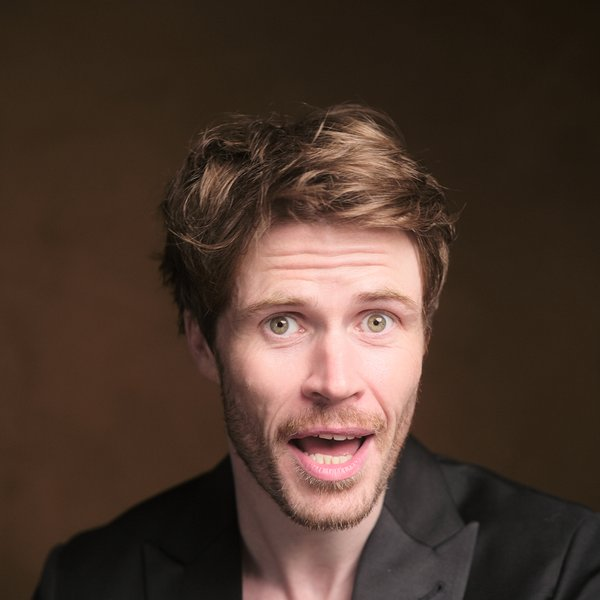
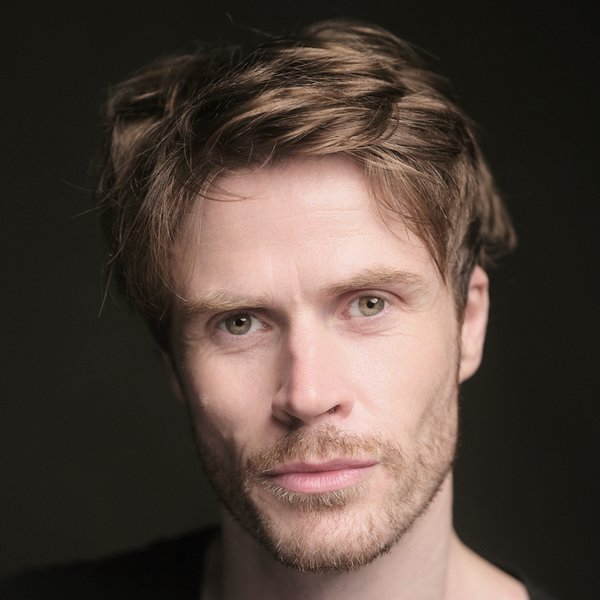
Replace Blue Book links with on-site bios and headshots; new Chris headshot
Claude-Session: https://claude.ai/code/session_01P8wBzAxyysvAywpiWrhLZ2

diff --git a/index.html b/index.html
@@ -517,6 +517,7 @@ details.more>summary::before{color:#f5f5f4}
 .avatar img{width:100%;height:100%;object-fit:cover;object-position:50% 18%}
 .aid h3{font-size:21px!important;margin:0;line-height:1.2}
 .acount{margin:3px 0 0;color:#b8b8bd;font-size:14px}.acount b{color:#f5f5f4;font-weight:600}
+.abio{margin:12px 0 4px;border-top:1px solid rgba(255,255,255,.12);padding-top:10px}.abio summary{cursor:pointer;font-weight:600;font-size:14px;min-height:32px;display:flex;align-items:center;gap:6px;list-style:none}.abio summary::-webkit-details-marker{display:none}.abio summary::after{content:"+";margin-left:auto;font-size:18px;opacity:.7}.abio[open] summary::after{content:"–"}.abio p{font-size:14px;line-height:1.55;opacity:.85;margin:8px 0 0}
 .aprof{display:inline-block;margin-top:4px;font-size:14px;font-weight:600;color:#f5f5f4;text-decoration:underline;text-underline-offset:3px;padding:4px 0}
 .aprof:hover{color:#fff;text-decoration-thickness:2px}
 .hsup2{display:inline-block;margin-top:10px;font-size:13px;color:#b8b8bd;text-decoration:underline;cursor:pointer}
@@ -1194,13 +1195,14 @@ function mapEmbed(v){return `<div class="rmap"><iframe title="Map: ${esc(v.name)
 const SHOWS=(()=>{const a=[];for(let d=1;d<=31;d++){const x=new Date(2027,2,d);if([4,5,6].includes(x.getDay()))a.push(dkey(x))}return a})();
 const CALL=[["18:00","Arrive"],["18:30–19:30","Warm-up"],["20:00","Curtain"]];
 const CREW=[
- {key:"chris-kelly",name:"Chris Kelly",role:"Director",fixed:true,link:"https://bluebooktheatrecompany.com/chriskelly/",linkLabel:"Profile ↗",link2:"https://chriskelly.it",link2Label:"chriskelly.it ↗",link3:"https://www.imdb.com/name/nm5854428/",link3Label:"IMDb ↗"},
- {key:"jessica-kollande",name:"Jessica Kollande",role:"Assistant Producer",link:"https://bluebooktheatrecompany.com/jessica-kollande/",linkLabel:"Profile ↗"},
+ {key:"chris-kelly",name:"Chris Kelly",role:"Director",fixed:true,link:"https://chriskelly.it",linkLabel:"chriskelly.it ↗",link2:"https://www.imdb.com/name/nm5854428/",link2Label:"IMDb ↗"},
+ {key:"jessica-kollande",name:"Jessica Kollande",role:"Assistant Producer"},
  {key:"adrian-p-smith",name:"Adrian P. Smith",role:"Set Director",field:"crewStatus",note:"Also plays Polonius"},
  {key:"g-lab-barcelona",name:"G Lab Barcelona",role:"Set Designer",link:"https://www.instagram.com/g.lab.barcelona/",linkLabel:"Instagram @g.lab.barcelona ↗"}
 ];
 const VACANCIES=[{role:"Costumier",note:"Costume is symbolic: colour and fabric volume show status. If you know someone, tell Chris."}];
-const PROFILE={"Sophie Heideker":"https://bluebooktheatrecompany.com/sophie-heideker/","Aldo D'Ibaños":"https://aldodibanos.com","Chrystele Alix":"https://bluebooktheatrecompany.com/chrystele-alix/","Teo Jansen":"https://bluebooktheatrecompany.com/teo-jansen/","Alex Lui":"https://bluebooktheatrecompany.com/alex-liu/","Sarah Dillamore":"https://bluebooktheatrecompany.com/sarah-dillamore/","Hannah Di Bella":"https://bluebooktheatrecompany.com/hannah-dibella/","Sarah Burns":"https://bluebooktheatrecompany.com/sarah-burns/","Rob McLoughlin":"https://www.imdb.com/name/nm5345862/","Carlos Toca":"https://bluebooktheatrecompany.com/carlos-toca/","Dario Roberto":"https://bluebooktheatrecompany.com/dario-giuseppe-roberto/","Julien Paschal":"https://www.sinemalar.com/sanatci/769226/julien-paschal","Chris Kelly":"https://bluebooktheatrecompany.com/chriskelly/","Jan Zammit":"https://www.instagram.com/janzammit/","Adrian P. Smith":"https://www.instagram.com/adrian_p_smith_actor/","Kyle Scudder":"https://www.instagram.com/kyle.scudder/","Ella Arkeus":"https://www.instagram.com/joella.a9/","Jean-Baptiste Courtois":"https://www.instagram.com/jean_baptiste_courtois/","Michael Strelow":"https://www.instagram.com/mishastrelow/","Jessica Kollande":"https://bluebooktheatrecompany.com/jessica-kollande/"};
+const PROFILE={"Aldo D'Ibaños": "https://aldodibanos.com", "Rob McLoughlin": "https://www.imdb.com/name/nm5345862/", "Julien Paschal": "https://www.sinemalar.com/sanatci/769226/julien-paschal", "Jan Zammit": "https://www.instagram.com/janzammit/", "Adrian P. Smith": "https://www.instagram.com/adrian_p_smith_actor/", "Kyle Scudder": "https://www.instagram.com/kyle.scudder/", "Ella Arkeus": "https://www.instagram.com/joella.a9/", "Jean-Baptiste Courtois": "https://www.instagram.com/jean_baptiste_courtois/", "Michael Strelow": "https://www.instagram.com/mishastrelow/"};
+const BIO={"Sophie Heideker": ["London-trained, Barcelona-based, fluent in four languages: Sophie Heideker plays wherever the story is. Seen on Netflix in Weiß & Morales, she is equally at home on stage and in front of the camera, with training at Actors Studio London and later in the Meisner and Chubbuck technique. Her taste since: roles that scare her a little."], "Chrystele Alix": ["Born in Paris, Chrystele Alix began her performance training at Roller Comédie before relocating to England to study Film and Television Production. This dual foundation in performance and screen craft informs her nuanced, story-driven approach to acting.", "Following a career in creative campaigns and narrative development, she returned to acting and completed professional training at the Identity School of Acting (London) and the Simplicius Meisner Workshop (Paris), refining her technique and deepening her commitment to character work.", "Her stage and screen credits include Neil Simon’s The Dinner Party with Blue Book Theatre Company. She brings discipline, emotional clarity, and a strong understanding of structure and storytelling to each role."], "Teo Jansen": ["Teo Jansen (Venezuela) is an actor and creator who began at a very young age in theatre, performing on the stages of Fundación La Barraca. Upon his arrival in Spain, he mainly took part in audiovisual productions such as the Paramount+ streaming series “STAGS” and many independent productions that took him to the international film festival circuit, until he returned to the stage with Joaquín Bundó’s production “Si lo Cuentas te Mato” (If You Tell, I’ll Kill You).", "Teo is well known on stage for the energy he shares with the audience and with the rest of the cast. He is a team player who adds whatever is needed for the best of the production."], "Alex Lui": ["Alex is an American actor currently living in Barcelona. After completing drama school at the Atlantic Theater Company New York he has continued to work in theatre and independent film in New York and Los Angeles. He is a founding member of the Space Theater in Los Angeles.", "Credits include Savage in Limbo, The Dreamer Examines His Pillow, Orpheus Descending, The Shawl, Pups, S Club 7 LA and Party at Sam’s."], "Sarah Dillamore": ["Sarah Dillamore is an English actor and singer based in Barcelona, Spain. From a young age, she harboured a deep passion for film and theatre; a flame that has only intensified with time. Over the past five years, she has dedicated herself to honing her craft, immersing herself in the Meisner and Chubbuck techniques at The Actors Workshop, and gaining experience on stage and screen. She is excited to further enrich her artistic journey within Barcelona’s thriving international theatre scene."], "Hannah Di Bella": ["Hannah DiBella is an American actor originally from North Carolina and currently based in Barcelona. A professional actor since the age of 6, Hannah has grown up acting, singing, and creating, and has been lucky enough to perform all over the world, including in the White House and the Vatican. In 2017, she joined the acting intensive at the University of North Carolina School of the Arts, where she was fortunate enough to develop with teachers like Scott Zigler, Mollye Maxner, and Dale Girard, and then shipped off to Barcelona to study at the Institute of the Arts Barcelona. Most recently, you can spot her in the Catalan series Això No És Suècia."], "Sarah Burns": ["Irish-American actress, writer and director, Sarah Burns’s most recent role was the Queen in “All You Need Is Death” by Paul Duane, and she wrote and directed the film “Sugar”. Trained in acting since 13, her journey has taken her from New York to Dublin and Barcelona, giving her a diverse range of techniques such as Alexander technique, Chubbuck technique, combat training, Standard English and American accent training and Meisner technique. Sarah studied at the Professional Performing Arts High School (PPAS) in New York and Bow Street Academy in Dublin, where she was mentored by instructors such as Shimmy Marcus and Gerry Grennell."], "Carlos Toca": ["Born in Mexico City, Carlos emigrated to Reno, Nevada at the age of 8, where he began acting in several productions with local theatre companies including TMCC and Bruka Theater of the Sierra.", "At the age of 20 he returned to Mexico City where he continued to study and earned his arts degree at CasAzul Artes Escénicas Argos.", "He now lives in Barcelona where he continues to act in advertisements, film, and television."], "Dario Roberto": ["Dario Giuseppe Roberto is an Indonesian actor currently based in Barcelona, where he continues to pursue his passion for theatre and performance. Originally from Bali, he relocated to Spain to immerse himself in the city’s vibrant creative scene.", "He made his stage debut in The Blue Room, an experience that sparked a lasting love for live performance and storytelling. Since then, Dario has approached each role with curiosity, emotional depth, and a playful, instinctive energy.", "His recent work includes portraying both Jason and Tyrone in Hand to God, highlighting his versatility and commitment to bold, character-driven theatre."], "Chris Kelly": ["Christopher Kelly, Irish actor & director. His journey in acting began at the esteemed Drama Centre London, where he earned his Master of Arts in Classical Acting under the tutelage of legendary teachers Christopher Fettes and Oleg Mirochnikov.", "During his time at Drama Centre London, Christopher trained at the renowned Boris Shchukin Theatre in Moscow, immersing himself in the rich theatrical traditions of Russia’s Stanislavski technique, insights that continue to inform his approach to performance to this day.", "One of his standout performances was in the BBC historical drama “37 Days,” where he portrayed Bosnian Serb nationalist Gavrilo Princip, a portrayal that garnered critical acclaim for its depth and authenticity.", "In addition to his screen work, he has worked professionally with companies such as the Ulster Theatre Company, tackling a diverse range of roles with skill and precision."], "Jessica Kollande": ["Born in Eastern Germany and raised in the North, Jessica has been living between Barcelona and Berlin since 2011. After spending several years in Barcelona, she moved to Berlin to pursue her passion for acting, earning a four-year degree from the Berliner Schule für Schauspiel.", "Jessica has performed in a variety of theatrical productions across Barcelona and Berlin, with notable performances in Festen (2023), written by David Eldridge, and The Thanksgiving Play by Larissa FastHorse. She is also a versatile voice actor, lending her voice to projects from commercials to animated series.", "Her commitment to her craft and her dynamic presence on stage have made her a respected figure in the European theatre scene, and she remains passionate about exploring new and exciting creative ventures."]};
 const PEOPLE=[...CAST,"Jessica Kollande","Chris Kelly"];
 function crewStatus(c){const d=castDocs[c.key]||{};return d[c.field||"status"]==="accepted"?"accepted":"pending"}
 const POSTER_KEYS=["love","power","madness","hate","company","macbeth","hamlet","midsummer","shrew","richard","coriolanus","ayli"];
@@ -1276,8 +1278,9 @@ const bookable=()=>ITEMS.filter(i=>i.actors[0]!=="Whole company");
 const countFor=id=>Object.values(bookings).filter(b=>b.type==="scene"&&b.scene===id).length;
 const actorLink=a=>CAST.includes(a)?`<a class="pill" href="#cast">${esc(a)}</a>`:`<span class="pill">${esc(a)}</span>`;
 const charLink=id=>CH[id]?`<a class="pill" href="#character-${id}">${esc(CH[id].name)}</a>`:"";
-const HEADSHOT={"Chris Kelly":"headshots/chris-kelly.jpg","Chrystele Alix":"https://bluebooktheatrecompany.com/wp-content/uploads/2026/04/DSCF3994-768x1024.jpg"};
-const headSrc=name=>HEADSHOT[name]||null;
+const HEADSHOT={"Chris Kelly":"headshots/chris-kelly.jpg"};let HEADS={};
+const headSrc=name=>HEADSHOT[name]||HEADS[name]||null;
+function loadHeads(){if(!SUPA.url)return;fetch(SUPA.url+"/rest/v1/docs?collection=eq.headshots&select=data",{headers:SUPA.key.startsWith("sb_")?{apikey:SUPA.key}:{apikey:SUPA.key,Authorization:"Bearer "+SUPA.key}}).then(r=>r.ok?r.json():[]).then(rows=>{const m={};rows.forEach(r=>{if(r.data&&r.data.name&&r.data.img)m[r.data.name]=r.data.img});HEADS=m;rerender()}).catch(()=>{})}
 function initials(n){return n.split(" ").map(w=>w[0]).join("").slice(0,2)}
 
 /* editable notes (Chris only) */
@@ -1568,6 +1571,7 @@ function partRow(p,dim){const x=partInfo(p),pl=playOf(p);
     <span class="cbar" aria-hidden="true"></span>
     <span class="cmain"><span class="cname">${esc(p.name)}</span><span class="cmeta">${ptag(pl)} ${x.spoken.length} scene${x.spoken.length===1?"":"s"} · ${wordsTxt(p.words)}</span></span>
     <span class="cgo" aria-hidden="true">→</span></a></li>`}
+const bioBlock=n=>BIO[n]?`<details class="abio"><summary>About ${esc(n.split(" ")[0])}</summary>${BIO[n].map(p=>`<p>${esc(p)}</p>`).join("")}</details>`:"";
 function actorCard(n){
   const ps=PARTS.filter(p=>p.actor===n).sort((a,b)=>playOrder().indexOf(playOf(a))-playOrder().indexOf(playOf(b))||b.words-a.words);
   const inF=castFilter==="All"?ps:ps.filter(p=>pshort(playOf(p))===castFilter);
@@ -1583,6 +1587,7 @@ function actorCard(n){
       ${PROFILE[n]?`<a class="aprof" href="${PROFILE[n]}" target="_blank" rel="noopener" aria-label="${esc(n)}'s profile (opens in a new tab)">View profile ↗</a>`:""}</div>
     </header>
     ${isOwner&&assets?`<label class="hsup2">${src?"Replace photo":"Add photo"}<input type="file" accept="image/*" data-hs="${esc(n)}" hidden></label>`:""}
+    ${bioBlock(n)}
     <ul class="clist" aria-label="Parts played by ${esc(n)}">${inF.map(p=>partRow(p)).join("")}</ul>
     ${rest.length?`<p class="also">Also plays ${rest.map(p=>`<a href="#character-${p.ch}">${esc(p.name)}</a> <span class="alsop">(${esc(pshort(playOf(p)))})</span>`).join(", ")}</p>`:""}
   </article>`;
@@ -1607,6 +1612,7 @@ function crewCard(c){
         ${st?`<p style="margin:6px 0 0">${stBadge(st)}</p>`:""}
         ${links.map(([u,l])=>`<a class="aprof" href="${u}" target="_blank" rel="noopener" style="margin-right:14px">${esc((l||"Profile").replace(/\s*↗$/,""))} ↗</a>`).join("")}</div>
     </header>
+    ${bioBlock(c.name)}
     <ul class="clist" aria-label="${esc(c.name)}'s roles">
       <li><a class="crow" href="#me" style="--c:#f5f5f4"><span class="cbar" aria-hidden="true"></span>
         <span class="cmain"><span class="cname">${esc(c.role)}</span><span class="cmeta"><span class="ctag" style="--c:#d4d4d8">Crew</span> ${st==="accepted"?"Role accepted":st==="declined"?"Role declined":"Accept or decline in My panel"}</span></span>
@@ -2083,7 +2089,7 @@ let rerenderQ=null;
 function rerender(){if(document.querySelector(".sheetbg.on"))return;if([...document.querySelectorAll("audio")].some(a=>!a.paused&&!a.ended)){clearTimeout(rerenderQ);rerenderQ=setTimeout(rerender,2000);return} clearTimeout(rerenderQ);rerenderQ=setTimeout(()=>{const y=window.scrollY;const h=(location.hash||"#home").slice(1);if(h==="booking")renderBooking();else{route();window.scrollTo(0,y)}},60)}
 (async()=>{
   const timer=setTimeout(()=>{if(!loaded)toast("Live data can't be reached yet")},10000);
-  if(SUPA.url&&SUPA.key){db=supaDB();myId=deviceId;canWrite=true;
+  if(SUPA.url&&SUPA.key){db=supaDB();loadHeads();myId=deviceId;canWrite=true;
     try{const p=localStorage.getItem("ss_dir_pin");if(p&&me==="Chris Kelly")isOwner=await db.isDirector(p)}catch(_){}
     try{assets=await window.claude.use("assets")}catch(_){assets=null}
   }else{
